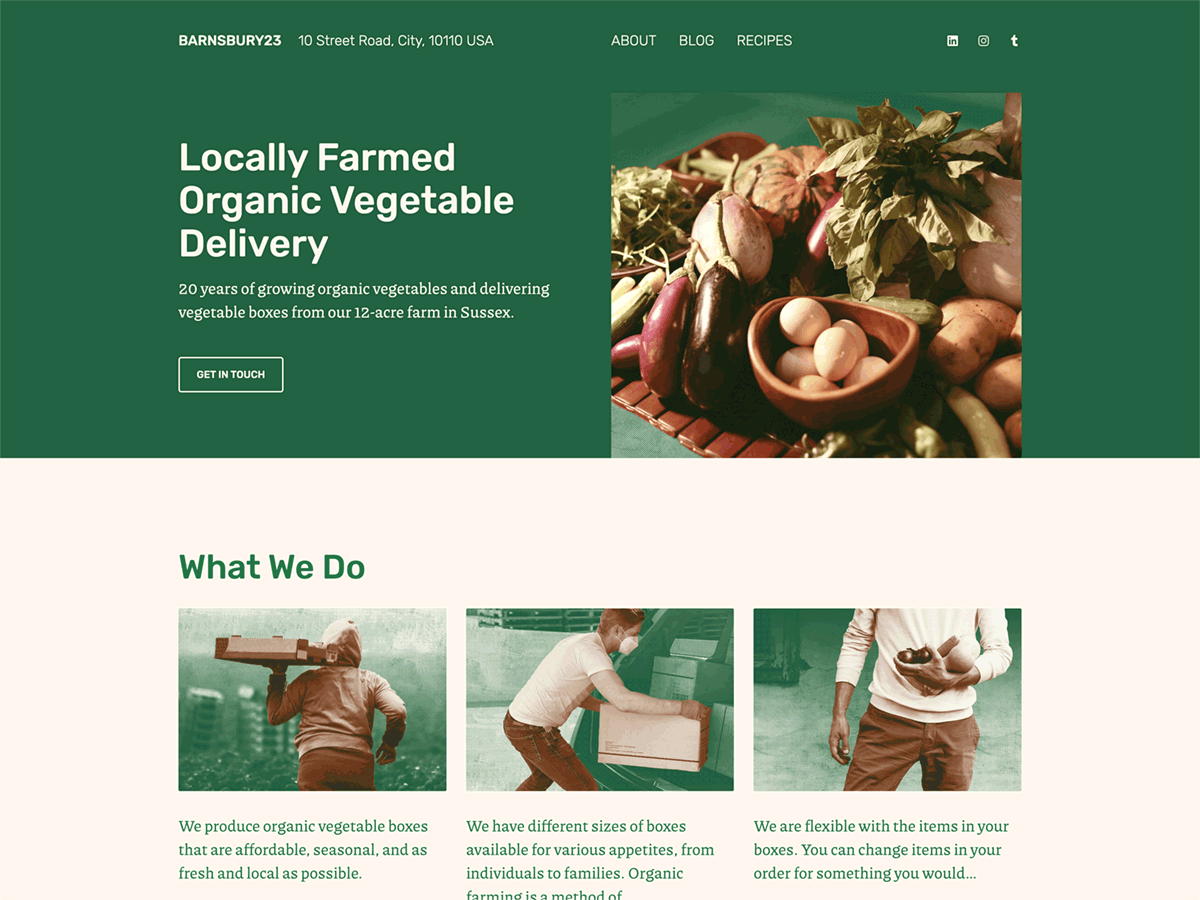
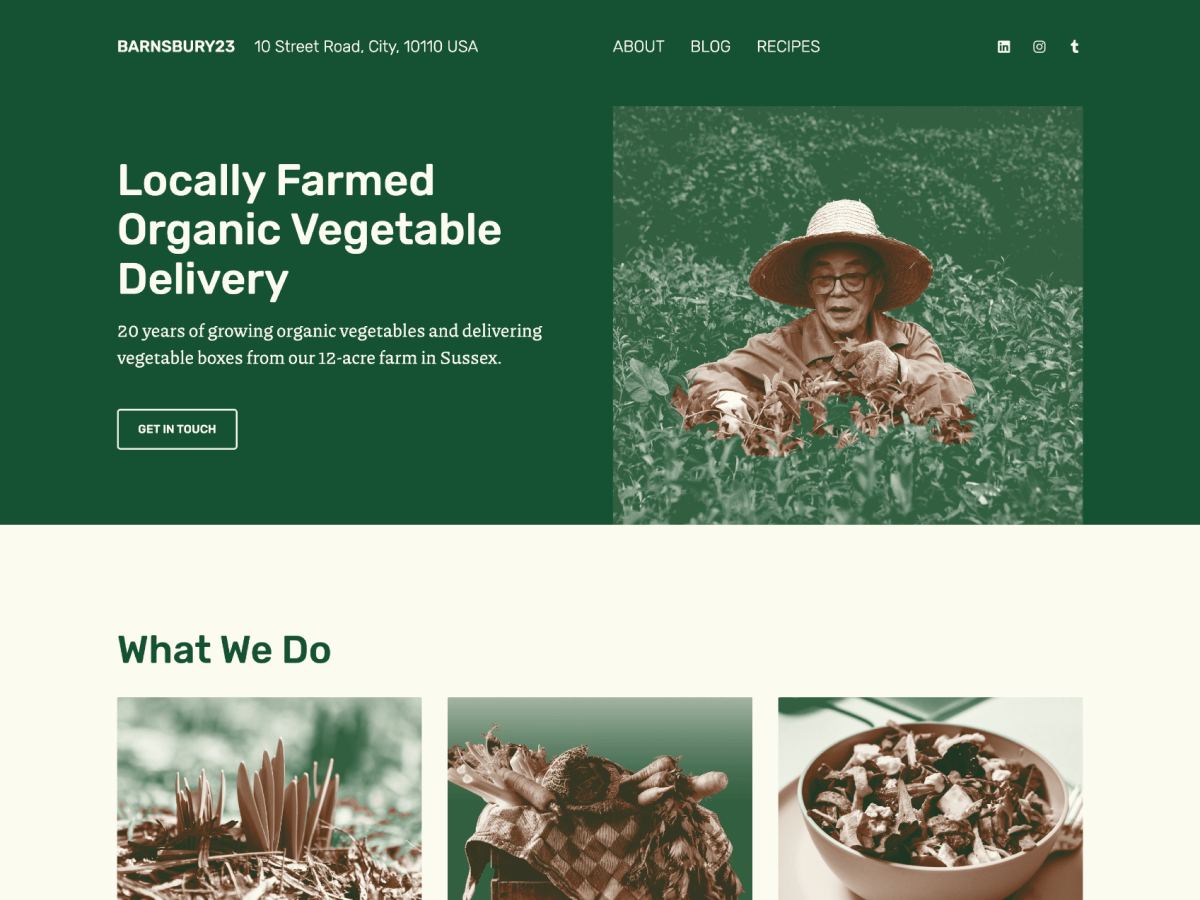
Update theme with latest designer changes

diff --git a/barnsbury23/style.css b/barnsbury23/style.css
@@ -4,15 +4,14 @@ Theme URI: https://github.com/Automattic/themes/tree/trunk/barnsbury23
 Author: Automattic
 Author URI: https://automattic.com
 Description: The recently updated Barnsbury is an earthy, friendly theme made with farming and agriculture businesses in mind — but versatile enough for a personal site, too.
-Requires at least: 5.8
-Tested up to: 6.1
+Requires at least: 6.0
+Tested up to: 6.2.2
 Requires PHP: 5.7
 Version: 0.0.1
 License: GNU General Public License v2 or later
 License URI: http://www.gnu.org/licenses/gpl-2.0.html
-Template: 
 Text Domain: barnsbury23
-Tags: blog, food-and-drink, one-column, two-columns, wide-blocks, block-patterns, custom-background, custom-colors, custom-logo, custom-menu, editor-style, featured-image-header, featured-images, flexible-header, full-site-editing, rtl-language-support, style-variations, template-editing, theme-options, threaded-comments, translation-ready, modern, responsive, professional, business, company, blog, lifestyle, food, restaurant, cafe, grocery, bakery, lifestyle, health
+Tags: blog, education, food-and-drink, one-column, two-columns, wide-blocks, accessibility-ready, block-patterns, block-styles, custom-background, custom-colors, custom-header, custom-logo, custom-menu, editor-style, featured-image-header, featured-images, flexible-header, footer-widgets, front-page-post-form, full-site-editing, post-formats, rtl-language-support, style-variations, template-editing, theme-options, threaded-comments, translation-ready, modern, responsive, professional, business, company, lifestyle, food, restaurant, cafe, grocery, bakery, health
 */
 
 /*

diff --git a/barnsbury23/parts/header.html b/barnsbury23/parts/header.html
@@ -6,7 +6,7 @@
 <!-- wp:columns {"verticalAlignment":"center","align":"wide"} -->
 <div class="wp-block-columns alignwide are-vertically-aligned-center"><!-- wp:column {"verticalAlignment":"center"} -->
 <div class="wp-block-column is-vertically-aligned-center"><!-- wp:group {"style":{"spacing":{"blockGap":"24px"}},"layout":{"type":"flex","flexWrap":"nowrap","verticalAlignment":"top"}} -->
-<div class="wp-block-group"><!-- wp:site-title {"style":{"typography":{"textTransform":"uppercase","fontStyle":"normal","fontWeight":"400","lineHeight":1}},"fontSize":"medium"} /-->
+<div class="wp-block-group"><!-- wp:site-title {"style":{"typography":{"textTransform":"uppercase","fontStyle":"normal","fontWeight":"400","lineHeight":1}},"fontSize":"medium","fontFamily":"rubik"} /-->
 
 <!-- wp:site-tagline {"style":{"typography":{"fontStyle":"normal","fontWeight":"300","lineHeight":1}},"fontSize":"medium","fontFamily":"rubik"} /--></div>
 <!-- /wp:group --></div>

diff --git a/barnsbury23/patterns/front-page.php b/barnsbury23/patterns/front-page.php
@@ -156,8 +156,8 @@
 <!-- /wp:column -->
 
 <!-- wp:column {"width":"66.6%","layout":{"type":"constrained","justifyContent":"left"}} -->
-<div class="wp-block-column" style="flex-basis:66.6%"><!-- wp:cover {"url":"<?php echo esc_url( get_stylesheet_directory_uri() ); ?>/assets/images/barnsbury23_the-farm.jpg","id":463,"dimRatio":0,"minHeight":520,"minHeightUnit":"px"} -->
-<div class="wp-block-cover" style="min-height:520px"><span aria-hidden="true" class="wp-block-cover__background has-background-dim-0 has-background-dim"></span><img class="wp-block-cover__image-background wp-image-463" alt="" src="<?php echo esc_url( get_stylesheet_directory_uri() ); ?>/assets/images/barnsbury23_the-farm.jpg" data-object-fit="cover"/><div class="wp-block-cover__inner-container"><!-- wp:paragraph {"align":"center","placeholder":"<?php echo esc_attr__( 'Write title…', 'barnsbury23' ); ?>","fontSize":"large"} -->
+<div class="wp-block-column" style="flex-basis:66.6%"><!-- wp:cover {"url":"<?php echo esc_url( get_stylesheet_directory_uri() ); ?>/assets/images/barnsbury_the-farm.png","id":463,"dimRatio":0,"minHeight":520,"minHeightUnit":"px"} -->
+<div class="wp-block-cover" style="min-height:520px"><span aria-hidden="true" class="wp-block-cover__background has-background-dim-0 has-background-dim"></span><img class="wp-block-cover__image-background wp-image-463" alt="" src="<?php echo esc_url( get_stylesheet_directory_uri() ); ?>/assets/images/barnsbury_the-farm.png" data-object-fit="cover"/><div class="wp-block-cover__inner-container"><!-- wp:paragraph {"align":"center","placeholder":"<?php echo esc_attr__( 'Write title…', 'barnsbury23' ); ?>","fontSize":"large"} -->
 <p class="has-text-align-center has-large-font-size"></p>
 <!-- /wp:paragraph --></div></div>
 <!-- /wp:cover -->

diff --git a/barnsbury23/patterns/hero-green.php b/barnsbury23/patterns/hero-green.php
@@ -40,8 +40,8 @@
 <!-- /wp:column -->
 
 <!-- wp:column {"verticalAlignment":"center","width":"50%"} -->
-<div class="wp-block-column is-vertically-aligned-center" style="flex-basis:50%"><!-- wp:cover {"url":"<?php echo esc_url( get_stylesheet_directory_uri() ); ?>/assets/images/barnsbury23_display.jpg","id":459,"dimRatio":0,"minHeight":520} -->
-<div class="wp-block-cover" style="min-height:520px"><span aria-hidden="true" class="wp-block-cover__background has-background-dim-0 has-background-dim"></span><img class="wp-block-cover__image-background wp-image-459" alt="" src="<?php echo esc_url( get_stylesheet_directory_uri() ); ?>/assets/images/barnsbury23_display.jpg" data-object-fit="cover"/><div class="wp-block-cover__inner-container"><!-- wp:paragraph {"align":"center","placeholder":"<?php echo esc_attr__( 'Write title…', 'barnsbury23' ); ?>","fontSize":"large"} -->
+<div class="wp-block-column is-vertically-aligned-center" style="flex-basis:50%"><!-- wp:cover {"url":"<?php echo esc_url( get_stylesheet_directory_uri() ); ?>/assets/images/b-original_hero.jpg","id":621,"dimRatio":0,"minHeight":520,"style":{"color":[]}} -->
+<div class="wp-block-cover" style="min-height:520px"><span aria-hidden="true" class="wp-block-cover__background has-background-dim-0 has-background-dim"></span><img class="wp-block-cover__image-background wp-image-621" alt="" src="<?php echo esc_url( get_stylesheet_directory_uri() ); ?>/assets/images/b-original_hero.jpg" data-object-fit="cover"/><div class="wp-block-cover__inner-container"><!-- wp:paragraph {"align":"center","placeholder":"<?php echo esc_attr__( 'Write title…', 'barnsbury23' ); ?>","fontSize":"large"} -->
 <p class="has-text-align-center has-large-font-size"></p>
 <!-- /wp:paragraph --></div></div>
 <!-- /wp:cover --></div>

diff --git a/barnsbury23/patterns/home.php b/barnsbury23/patterns/home.php
@@ -156,8 +156,8 @@
 <!-- /wp:column -->
 
 <!-- wp:column {"width":"66.6%","layout":{"type":"constrained","justifyContent":"left"}} -->
-<div class="wp-block-column" style="flex-basis:66.6%"><!-- wp:cover {"url":"<?php echo esc_url( get_stylesheet_directory_uri() ); ?>/assets/images/barnsbury23_the-farm.jpg","id":463,"dimRatio":0,"minHeight":520,"minHeightUnit":"px"} -->
-<div class="wp-block-cover" style="min-height:520px"><span aria-hidden="true" class="wp-block-cover__background has-background-dim-0 has-background-dim"></span><img class="wp-block-cover__image-background wp-image-463" alt="" src="<?php echo esc_url( get_stylesheet_directory_uri() ); ?>/assets/images/barnsbury23_the-farm.jpg" data-object-fit="cover"/><div class="wp-block-cover__inner-container"><!-- wp:paragraph {"align":"center","placeholder":"<?php echo esc_attr__( 'Write title…', 'barnsbury23' ); ?>","fontSize":"large"} -->
+<div class="wp-block-column" style="flex-basis:66.6%"><!-- wp:cover {"url":"<?php echo esc_url( get_stylesheet_directory_uri() ); ?>/assets/images/barnsbury_the-farm.png","id":463,"dimRatio":0,"minHeight":520,"minHeightUnit":"px"} -->
+<div class="wp-block-cover" style="min-height:520px"><span aria-hidden="true" class="wp-block-cover__background has-background-dim-0 has-background-dim"></span><img class="wp-block-cover__image-background wp-image-463" alt="" src="<?php echo esc_url( get_stylesheet_directory_uri() ); ?>/assets/images/barnsbury_the-farm.png" data-object-fit="cover"/><div class="wp-block-cover__inner-container"><!-- wp:paragraph {"align":"center","placeholder":"<?php echo esc_attr__( 'Write title…', 'barnsbury23' ); ?>","fontSize":"large"} -->
 <p class="has-text-align-center has-large-font-size"></p>
 <!-- /wp:paragraph --></div></div>
 <!-- /wp:cover -->

diff --git a/barnsbury23/patterns/numbers-clean.php b/barnsbury23/patterns/numbers-clean.php
@@ -88,8 +88,8 @@
 <!-- /wp:column -->
 
 <!-- wp:column {"width":"66.6%","layout":{"type":"constrained","justifyContent":"left"}} -->
-<div class="wp-block-column" style="flex-basis:66.6%"><!-- wp:cover {"url":"<?php echo esc_url( get_stylesheet_directory_uri() ); ?>/assets/images/barnsbury23_the-farm.jpg","id":463,"dimRatio":0,"minHeight":520,"minHeightUnit":"px"} -->
-<div class="wp-block-cover" style="min-height:520px"><span aria-hidden="true" class="wp-block-cover__background has-background-dim-0 has-background-dim"></span><img class="wp-block-cover__image-background wp-image-463" alt="" src="<?php echo esc_url( get_stylesheet_directory_uri() ); ?>/assets/images/barnsbury23_the-farm.jpg" data-object-fit="cover"/><div class="wp-block-cover__inner-container"><!-- wp:paragraph {"align":"center","placeholder":"<?php echo esc_attr__( 'Write title…', 'barnsbury23' ); ?>","fontSize":"large"} -->
+<div class="wp-block-column" style="flex-basis:66.6%"><!-- wp:cover {"url":"<?php echo esc_url( get_stylesheet_directory_uri() ); ?>/assets/images/barnsbury_the-farm.png","id":463,"dimRatio":0,"minHeight":520,"minHeightUnit":"px"} -->
+<div class="wp-block-cover" style="min-height:520px"><span aria-hidden="true" class="wp-block-cover__background has-background-dim-0 has-background-dim"></span><img class="wp-block-cover__image-background wp-image-463" alt="" src="<?php echo esc_url( get_stylesheet_directory_uri() ); ?>/assets/images/barnsbury_the-farm.png" data-object-fit="cover"/><div class="wp-block-cover__inner-container"><!-- wp:paragraph {"align":"center","placeholder":"<?php echo esc_attr__( 'Write title…', 'barnsbury23' ); ?>","fontSize":"large"} -->
 <p class="has-text-align-center has-large-font-size"></p>
 <!-- /wp:paragraph --></div></div>
 <!-- /wp:cover -->

diff --git a/barnsbury23/patterns/numbers-green.php b/barnsbury23/patterns/numbers-green.php
@@ -88,8 +88,8 @@
 <!-- /wp:column -->
 
 <!-- wp:column {"width":"66.6%","layout":{"type":"constrained","justifyContent":"left"}} -->
-<div class="wp-block-column" style="flex-basis:66.6%"><!-- wp:cover {"url":"<?php echo esc_url( get_stylesheet_directory_uri() ); ?>/assets/images/barnsbury23_the-farm.jpg","id":463,"dimRatio":0,"minHeight":520,"minHeightUnit":"px"} -->
-<div class="wp-block-cover" style="min-height:520px"><span aria-hidden="true" class="wp-block-cover__background has-background-dim-0 has-background-dim"></span><img class="wp-block-cover__image-background wp-image-463" alt="" src="<?php echo esc_url( get_stylesheet_directory_uri() ); ?>/assets/images/barnsbury23_the-farm.jpg" data-object-fit="cover"/><div class="wp-block-cover__inner-container"><!-- wp:paragraph {"align":"center","placeholder":"<?php echo esc_attr__( 'Write title…', 'barnsbury23' ); ?>","fontSize":"large"} -->
+<div class="wp-block-column" style="flex-basis:66.6%"><!-- wp:cover {"url":"<?php echo esc_url( get_stylesheet_directory_uri() ); ?>/assets/images/b-original_farm.jpg","id":620,"dimRatio":0,"minHeight":520,"minHeightUnit":"px"} -->
+<div class="wp-block-cover" style="min-height:520px"><span aria-hidden="true" class="wp-block-cover__background has-background-dim-0 has-background-dim"></span><img class="wp-block-cover__image-background wp-image-620" alt="" src="<?php echo esc_url( get_stylesheet_directory_uri() ); ?>/assets/images/b-original_farm.jpg" data-object-fit="cover"/><div class="wp-block-cover__inner-container"><!-- wp:paragraph {"align":"center","placeholder":"<?php echo esc_attr__( 'Write title…', 'barnsbury23' ); ?>","fontSize":"large"} -->
 <p class="has-text-align-center has-large-font-size"></p>
 <!-- /wp:paragraph --></div></div>
 <!-- /wp:cover -->

diff --git a/barnsbury23/patterns/home-clean.php b/barnsbury23/patterns/home-clean.php
@@ -41,8 +41,8 @@
 <!-- /wp:column -->
 
 <!-- wp:column {"verticalAlignment":"center","width":"50%"} -->
-<div class="wp-block-column is-vertically-aligned-center" style="flex-basis:50%"><!-- wp:cover {"url":"<?php echo esc_url( get_stylesheet_directory_uri() ); ?>/assets/images/barnsbury23_display.jpg","id":459,"dimRatio":0,"minHeight":520} -->
-<div class="wp-block-cover" style="min-height:520px"><span aria-hidden="true" class="wp-block-cover__background has-background-dim-0 has-background-dim"></span><img class="wp-block-cover__image-background wp-image-459" alt="" src="<?php echo esc_url( get_stylesheet_directory_uri() ); ?>/assets/images/barnsbury23_display.jpg" data-object-fit="cover"/><div class="wp-block-cover__inner-container"><!-- wp:paragraph {"align":"center","placeholder":"<?php echo esc_attr__( 'Write title…', 'barnsbury23' ); ?>","fontSize":"large"} -->
+<div class="wp-block-column is-vertically-aligned-center" style="flex-basis:50%"><!-- wp:cover {"url":"<?php echo esc_url( get_stylesheet_directory_uri() ); ?>/assets/images/b-original_hero.jpg","id":621,"dimRatio":0,"minHeight":520} -->
+<div class="wp-block-cover" style="min-height:520px"><span aria-hidden="true" class="wp-block-cover__background has-background-dim-0 has-background-dim"></span><img class="wp-block-cover__image-background wp-image-621" alt="" src="<?php echo esc_url( get_stylesheet_directory_uri() ); ?>/assets/images/b-original_hero.jpg" data-object-fit="cover"/><div class="wp-block-cover__inner-container"><!-- wp:paragraph {"align":"center","placeholder":"<?php echo esc_attr__( 'Write title…', 'barnsbury23' ); ?>","fontSize":"large"} -->
 <p class="has-text-align-center has-large-font-size"></p>
 <!-- /wp:paragraph --></div></div>
 <!-- /wp:cover --></div>
